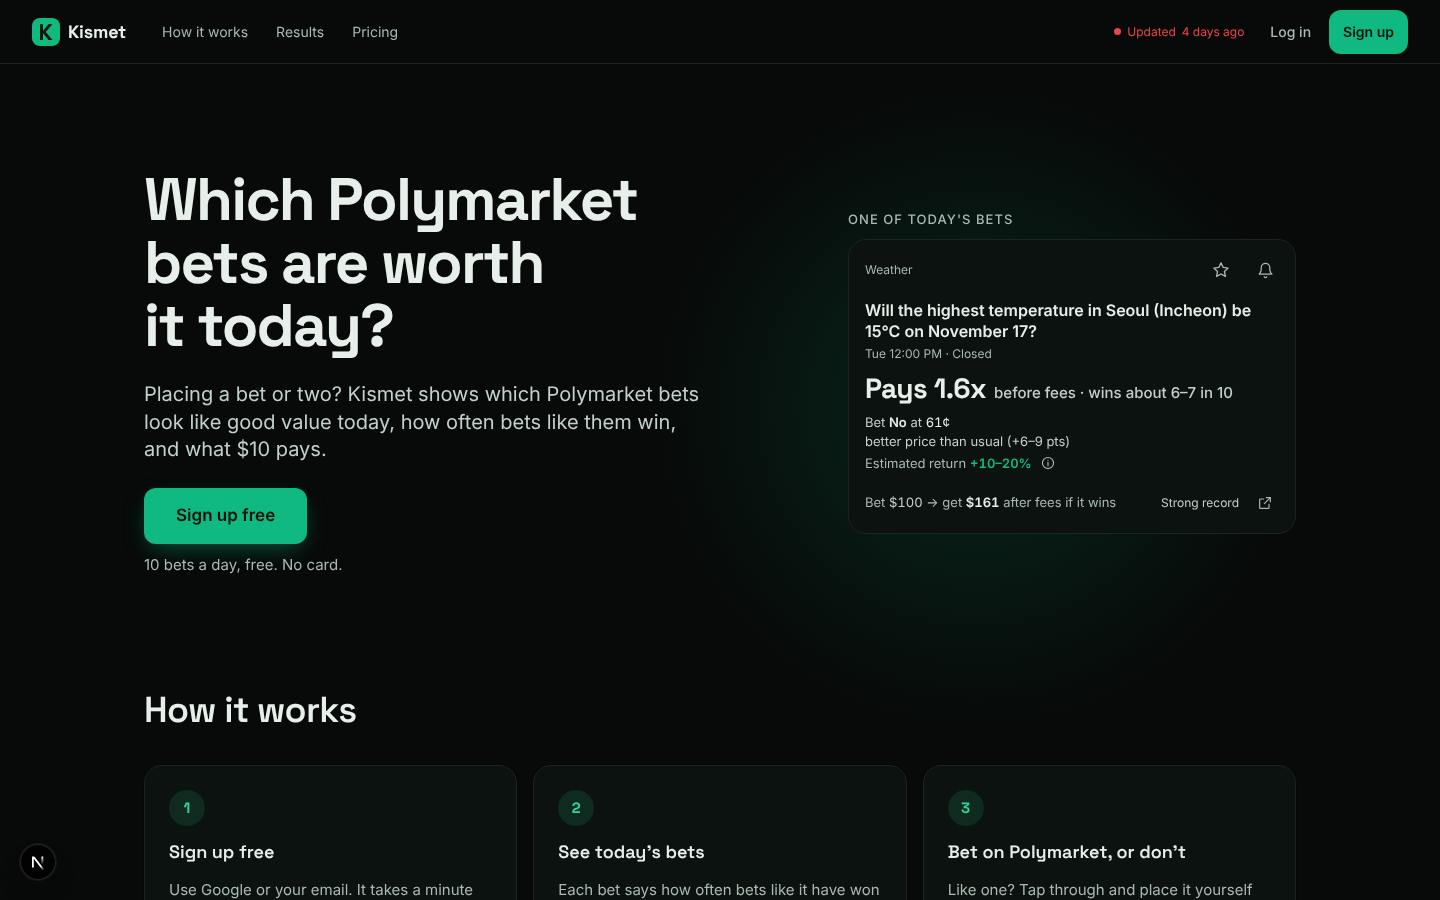
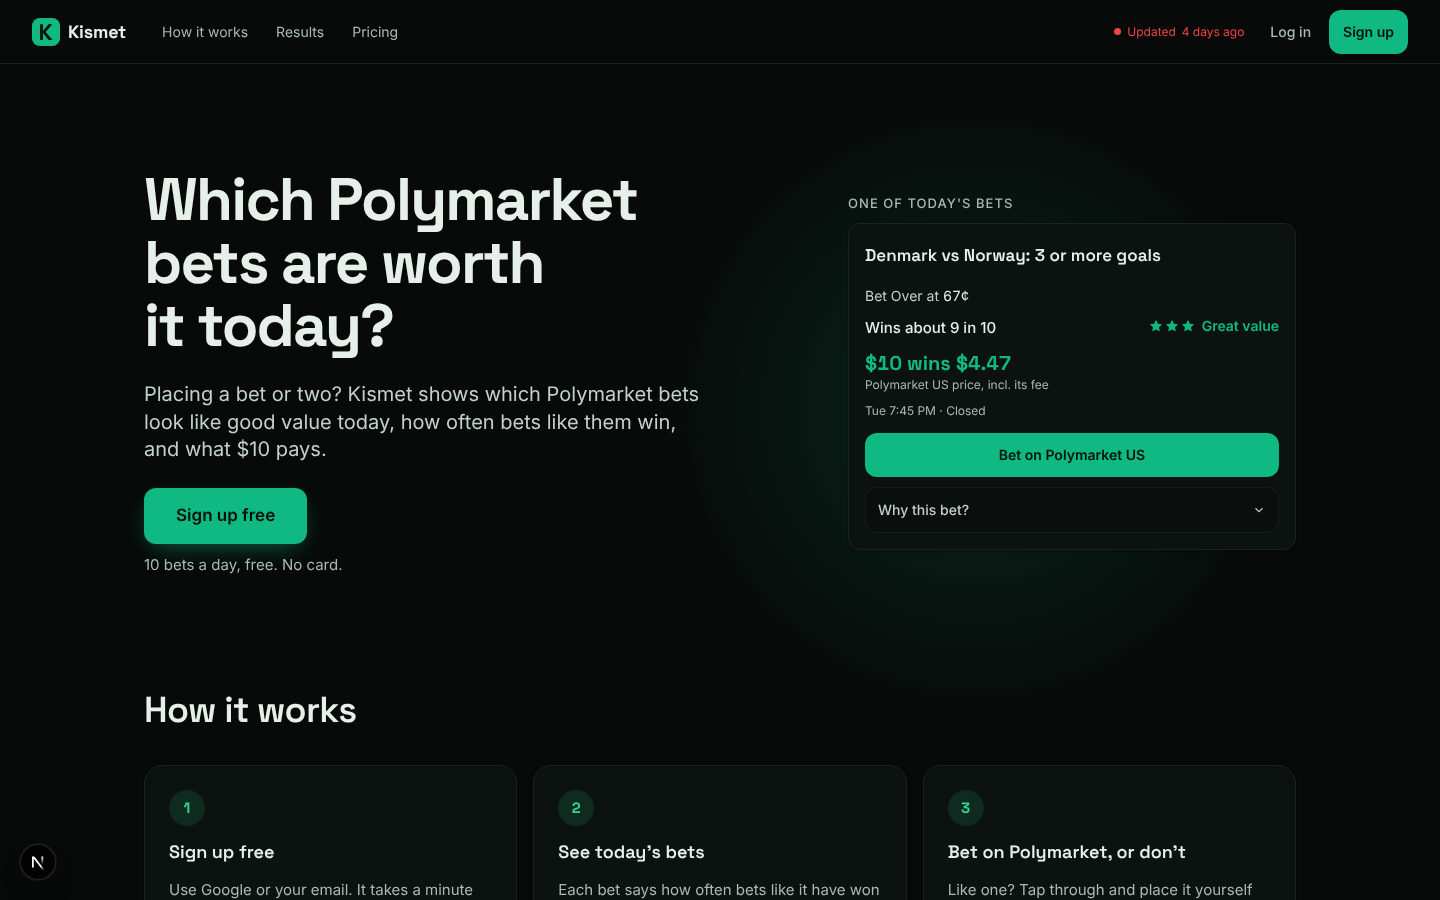
T-295: landing back under 150 kB after the new card (no zod, no trade ticket, lazy My list star); admin e2e waits for /api/me
Claude-Session: https://claude.ai/code/session_01Xq7uwdZCe7fdoS1L1HaNXT

Changed region(s): [[0.5938, 0.28, 0.9062, 0.5911], [0.5938, 0.2178, 0.7188, 0.2489]]

diff --git a/apps/web/components/market/card/Why.tsx b/apps/web/components/market/card/Why.tsx
@@ -6,12 +6,17 @@
 import type { ReactNode } from "react";
 import type { ApiRow } from "@/lib/api";
 import { backLine, cardVenue, INTL_ONLY, NOT_FOR_US, priceText, stars, starsHelp, type CardVenue } from "@/lib/card";
-import { paysBand } from "@/lib/filters/apply";
+import { paysBand } from "@/lib/filters/bands";   // not ./apply: zod on the landing (T-295)
 import { cardReturn, money, pct, ret, testedLine } from "@/lib/format";
 import { noLiveRecord } from "@/lib/proof";
 import type { Execution, Market, Side } from "@/lib/types";
-import { WatchStar } from "@/components/watch/WatchStar";
-import { venueOf } from "@/components/trade/TradeButton";
+import dynamic from "next/dynamic";
+// T-295: the star sits inside the closed "Why this bet?" body, so it loads on its own (keeps the landing under 150 kB)
+const WatchStar = dynamic(() => import("@/components/watch/WatchStar").then((m) => m.WatchStar), {
+  ssr: false,
+  loading: () => <span aria-hidden="true" className="inline-block size-11" />,
+});
+import { venueOf } from "@/lib/trade/venue";
 import { AlertLink } from "../bits";
 import { drawerHref, useOpenDrawer } from "../drawer";
 import { topicLabel } from "../labels";

diff --git a/apps/web/components/trade/TradeButton.tsx b/apps/web/components/trade/TradeButton.tsx
@@ -2,13 +2,11 @@
 // "Open on Kalshi / Polymarket" (every bet, on by default) and the paper "Trade" button (docs/16 §2, §4).
 import { ExternalLink } from "@/components/kit/icons";
 import { openTicket, useTradeConfig } from "@/lib/trade/ext";
-import { kalshiMarketUrl } from "@/lib/trade/urls";   // not ./intent: zod on the landing (T-295)
 import type { Market, Side } from "@/lib/types";
 
 /** Kalshi when the market has a mapped ticker, else Polymarket. */
-export function venueOf(m: Pick<Market, "url" | "kalshi_ticker">): { name: "Kalshi" | "Polymarket"; href: string } {
-  return m.kalshi_ticker ? { name: "Kalshi", href: kalshiMarketUrl(m.kalshi_ticker) } : { name: "Polymarket", href: m.url };
-}
+import { venueOf } from "@/lib/trade/venue";
+export { venueOf };
 
 export function VenueLink({ m, className = "" }: { m: Pick<Market, "url" | "kalshi_ticker">; className?: string }) {
   const v = venueOf(m);

diff --git a/apps/web/e2e-paid/admin.spec.ts b/apps/web/e2e-paid/admin.spec.ts
@@ -75,7 +75,7 @@ test("admin: sees /admin with a user count, flips the banner and everyone sees i
   const nav = page.locator("header").getByRole("navigation", { name: "Main" });
   for (const [label, path] of [["Combos", "/combos"], ["Kalshi", "/kalshi"]] as const) {
     const link = nav.getByRole("link", { name: new RegExp(`^${label}`) });
-    await expect(link).toBeVisible();
+    await expect(link).toBeVisible({ timeout: 15_000 });   // beta links appear once /api/me answers after each page load
     await expect(link.getByTestId("beta-badge")).toHaveText("Beta");
     expect((await page.goto(path))?.status(), path).toBe(200);
     await expect(page.getByTestId("beta-banner")).toHaveText("Beta: only visible to admins and testers. Not live for customers.");

diff --git a/apps/web/lib/trade/venue.ts b/apps/web/lib/trade/venue.ts
@@ -1,0 +1,8 @@
+// Which venue a market's link opens. Its own light module so the bet card (and the landing) don't pull in the
+// trade ticket and extension code from components/trade/TradeButton (T-295 JS budget).
+import type { Market } from "@/lib/types";
+import { kalshiMarketUrl } from "@/lib/trade/urls";
+
+export function venueOf(m: Pick<Market, "url" | "kalshi_ticker">): { name: "Kalshi" | "Polymarket"; href: string } {
+  return m.kalshi_ticker ? { name: "Kalshi", href: kalshiMarketUrl(m.kalshi_ticker) } : { name: "Polymarket", href: m.url };
+}

diff --git a/apps/web/components/trade/VenueButton.tsx b/apps/web/components/trade/VenueButton.tsx
@@ -6,7 +6,7 @@
 // international venue as before. Keep the props stable.
 import type { Market, Side } from "@/lib/types";
 import { funnel } from "@/lib/telemetry";
-import { venueOf } from "./TradeButton";
+import { venueOf } from "@/lib/trade/venue";
 
 type VenueMarket = Pick<Market, "url" | "kalshi_ticker" | "id"> & Partial<Pick<Market, "us" | "best">>;
 
